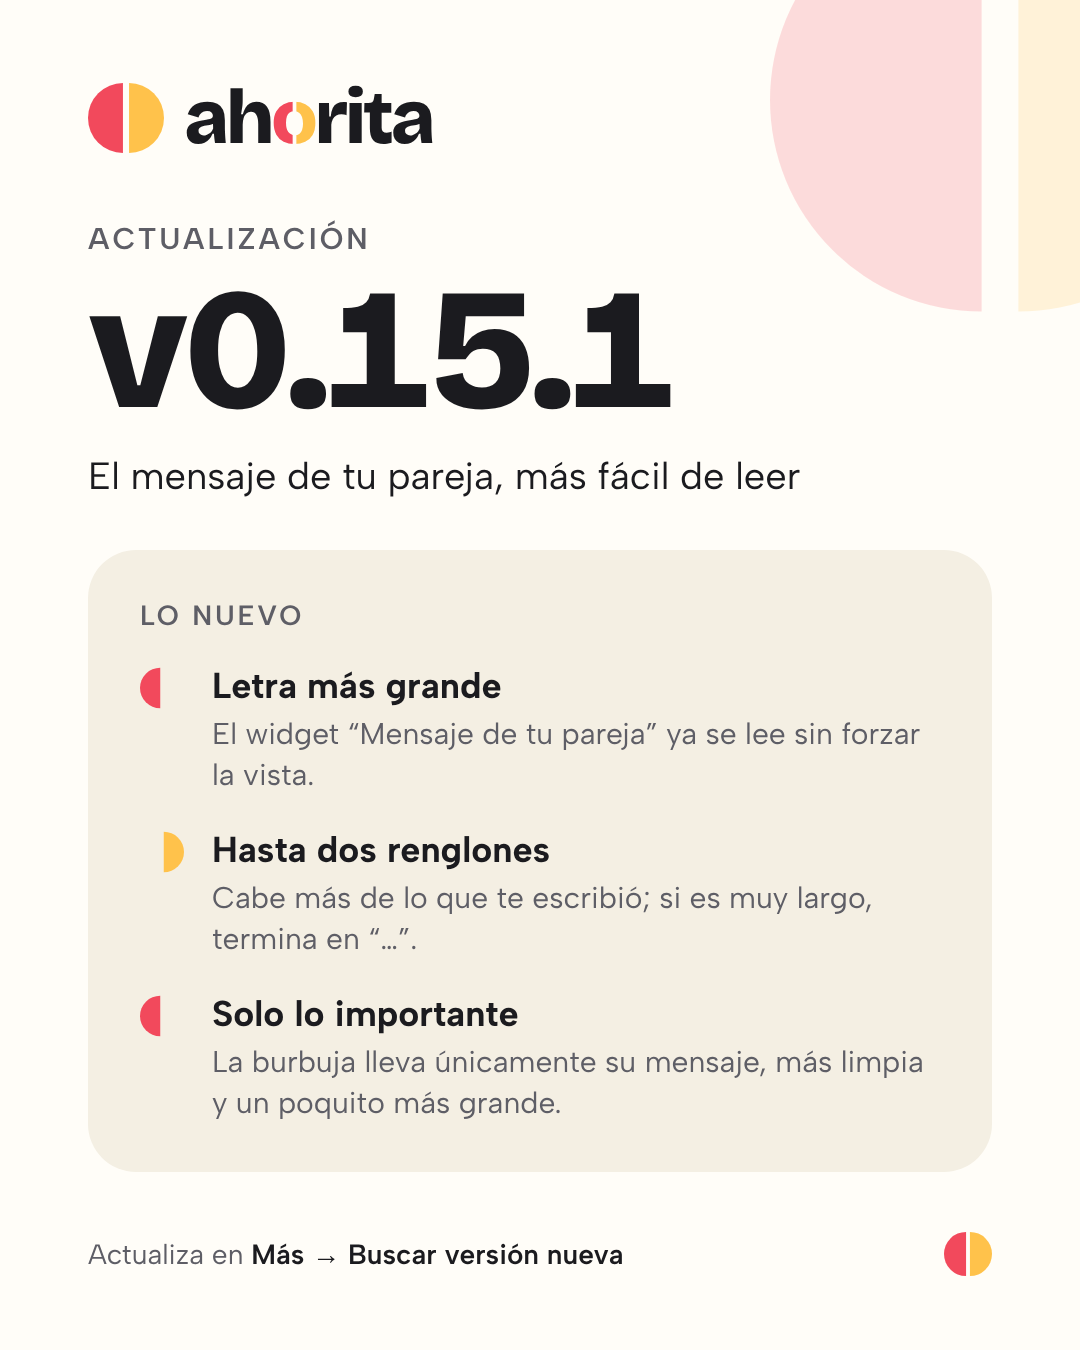
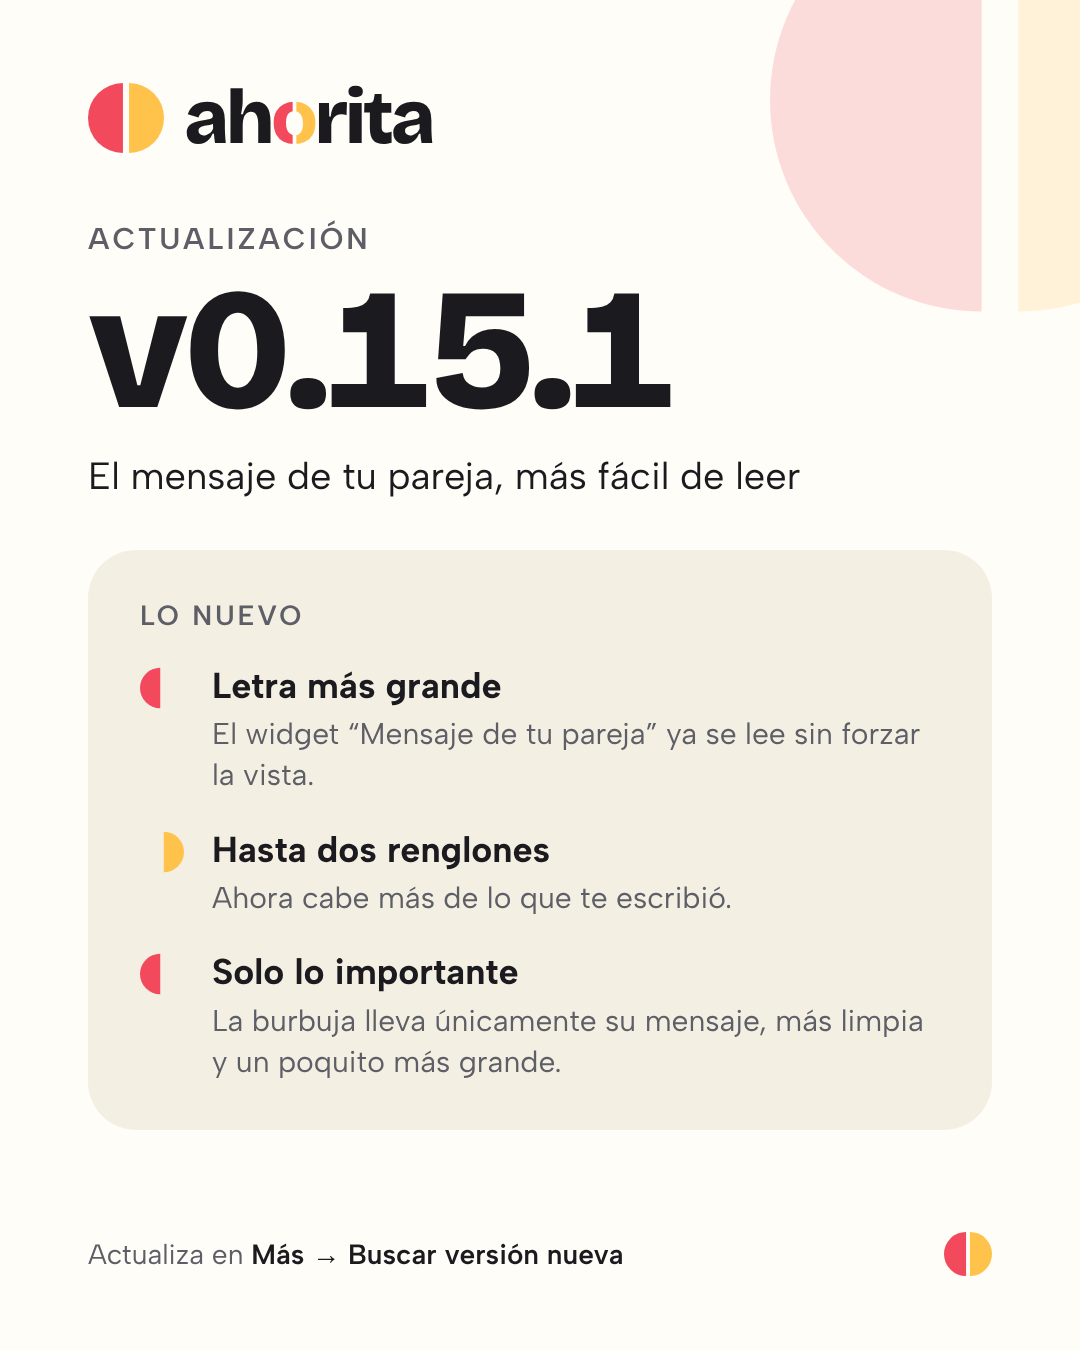
Imagen de novedades con varias versiones (v0.15.0 + v0.15.1)
Claude-Session: https://claude.ai/code/session_014Dsa232AGtBDfYiLzBcD7V

Changed region(s): [[0.1833, 0.6533, 0.7944, 0.84], [0.7333, 0.7467, 0.8556, 0.8089], [0.1222, 0.6844, 0.1528, 0.7778]]

diff --git a/docs/DECISIONS.md b/docs/DECISIONS.md
@@ -164,4 +164,4 @@ de la D16 en adelante se toman durante las fases. Cada fase agrega aquí lo que 
 | D151 | **Filtros por categoría** (v0.15): Todas / Sin contestar / Contestadas con `Segmented` bajo el encabezado; "contestada" es desde tu lado (`answered_by_me`, incluye las que esperan a tu pareja). Todas conserva el orden de `sortForMe`. Lo que viene pierde las notas automáticas ("Sale de su aniversario"/"…del cumpleaños en el perfil"). |
 | D152 | **El trabajo se nombra por versión, no por fase** (desde la v0.15.1). Cada sesión toma como referencia la versión de la app que va a entregar: sección `### v0.N — …` en §9 del plan, fila en §10, commits `v0.N: …`, notas `docs/releases/v0.N.P.md` con encabezado `# v0.N.P — Nombre` y título del release igual. `release-apk.yml` cambia el input `fase` por `titulo` y sigue aceptando las notas viejas `# Fase N — …`. | Pedido del usuario: dejar de ponerle "Fase". | 2026-11-23 |
 | D153 | **Widget "Mensaje de tu pareja" solo con el mensaje** (v0.15.1; corrige D142/D145). Fuera la línea del mood y hace cuánto (siguen en el lector de pantalla); letra de 13 → 15, hasta **dos renglones** con "…" alineados a la izquierda y centrados en el alto, burbuja un poco más alta (cuerpo de 43 → 52 dp, relleno 7, radio hasta 16) y círculo de 34 → 36 dp. Si la celda no da para dos renglones, queda uno. `MessageView` pierde `meta` y `messageLayout` ya no recibe `hasMeta`; vistas previas regeneradas. | Pedido del usuario: se leía demasiado chico. | 2026-11-23 |
-| D154 | **Imagen de novedades por versión, a pedido** (v0.15.1). `npm run update-card -- vX.Y.Z` arma con Playwright una imagen 1080×1350 en tema claro con el símbolo, el wordmark, "Actualización vX.Y.Z", un subtítulo y la caja "Lo nuevo" con 2–5 novedades escritas para el público en `docs/releases/novedades/<versión>.md`; sale en `docs/releases/img/<versión>.png`. Reglas en `docs/releases/README.md`. | Pedido del usuario: una imagen con el diseño de la app para anunciar cada actualización. | 2026-11-23 |
+| D154 | **Imagen de novedades por versión, a pedido** (v0.15.1). `npm run update-card -- vX.Y.Z` arma con Playwright una imagen 1080×1350 en tema claro con el símbolo, el wordmark, "Actualización vX.Y.Z", un subtítulo y la caja "Lo nuevo" con 2–5 novedades escritas para el público en `docs/releases/novedades/<versión>.md`; sale en `docs/releases/img/<versión>.png`. Con varias versiones (`-- v0.15.0 v0.15.1`) sale en formato historia 1080×1920 con una caja por versión. Reglas en `docs/releases/README.md`. | Pedido del usuario: una imagen con el diseño de la app para anunciar cada actualización. | 2026-11-23 |

diff --git a/docs/releases/README.md b/docs/releases/README.md
@@ -38,8 +38,14 @@ lista de "Qué probar"):
    tuteo, frases cortas, beneficios en lugar de nombres técnicos (nada de "snapshot", "RPC", "D153"
    ni números de dp), sin emojis (la fuente del render no los dibuja). Si la versión trae un solo
    cambio, se parte en sus beneficios visibles; nunca se inventa una novedad.
-2. `npm run update-card -- <versión>` → `docs/releases/img/<versión>.png`.
-3. Revisa la imagen (que mida **1080×1350**; si crece, recorta texto) y mándasela al usuario.
+2. `npm run update-card -- <versión>` → `docs/releases/img/<versión>.png` (1080×1350).
+   **Varias versiones en la misma imagen** (p. ej. "la 0.15 y la 0.15.1"):
+   `npm run update-card -- v0.15.0 v0.15.1` → `docs/releases/img/v0.15.0_v0.15.1.png` en formato
+   historia (1080×1920): la más nueva va en grande, el subtítulo dice "Todo lo nuevo de la … y la …"
+   y cada versión lleva su caja "Lo nuevo en vX.Y.Z", de la más nueva a la más vieja. Cada versión
+   necesita su archivo en `novedades/`.
+3. Revisa la imagen (el script imprime la medida: si crece de 1350/1920, recorta texto; que no
+   queden palabras huérfanas en un renglón) y mándasela al usuario.
 
 La imagen la arma `scripts/gen-update-card.mjs` con el sistema de diseño (DISENO §2–§3): tema claro
 (Hueso, Arena, Tinta, Grafito), símbolo y wordmark con la "o" partida en Sandía y Mango,

diff --git a/docs/releases/novedades/v0.15.0.md b/docs/releases/novedades/v0.15.0.md
@@ -1,0 +1,6 @@
+# Tu fruta y tus preguntas, más a tu manera
+
+- **Más frutas para ti**: solo está apartada la que eligió tu pareja; ya puedes escoger una del mismo color.
+- **Cambiar de fruta, más fácil**: el botón para quedártela aparece al elegir otra y flota abajo, sin bajar hasta el fondo.
+- **Filtra tus preguntas**: en cada categoría ve Todas, Sin contestar o Contestadas.
+- **Lo que viene, más limpio**: tus fechas ya no traen notas de relleno.

diff --git a/docs/releases/novedades/v0.15.1.md b/docs/releases/novedades/v0.15.1.md
@@ -1,5 +1,5 @@
 # El mensaje de tu pareja, más fácil de leer
 
 - **Letra más grande**: el widget “Mensaje de tu pareja” ya se lee sin forzar la vista.
-- **Hasta dos renglones**: cabe más de lo que te escribió; si es muy largo, termina en “…”.
+- **Hasta dos renglones**: ahora cabe más de lo que te escribió.
 - **Solo lo importante**: la burbuja lleva únicamente su mensaje, más limpia y un poquito más grande.
